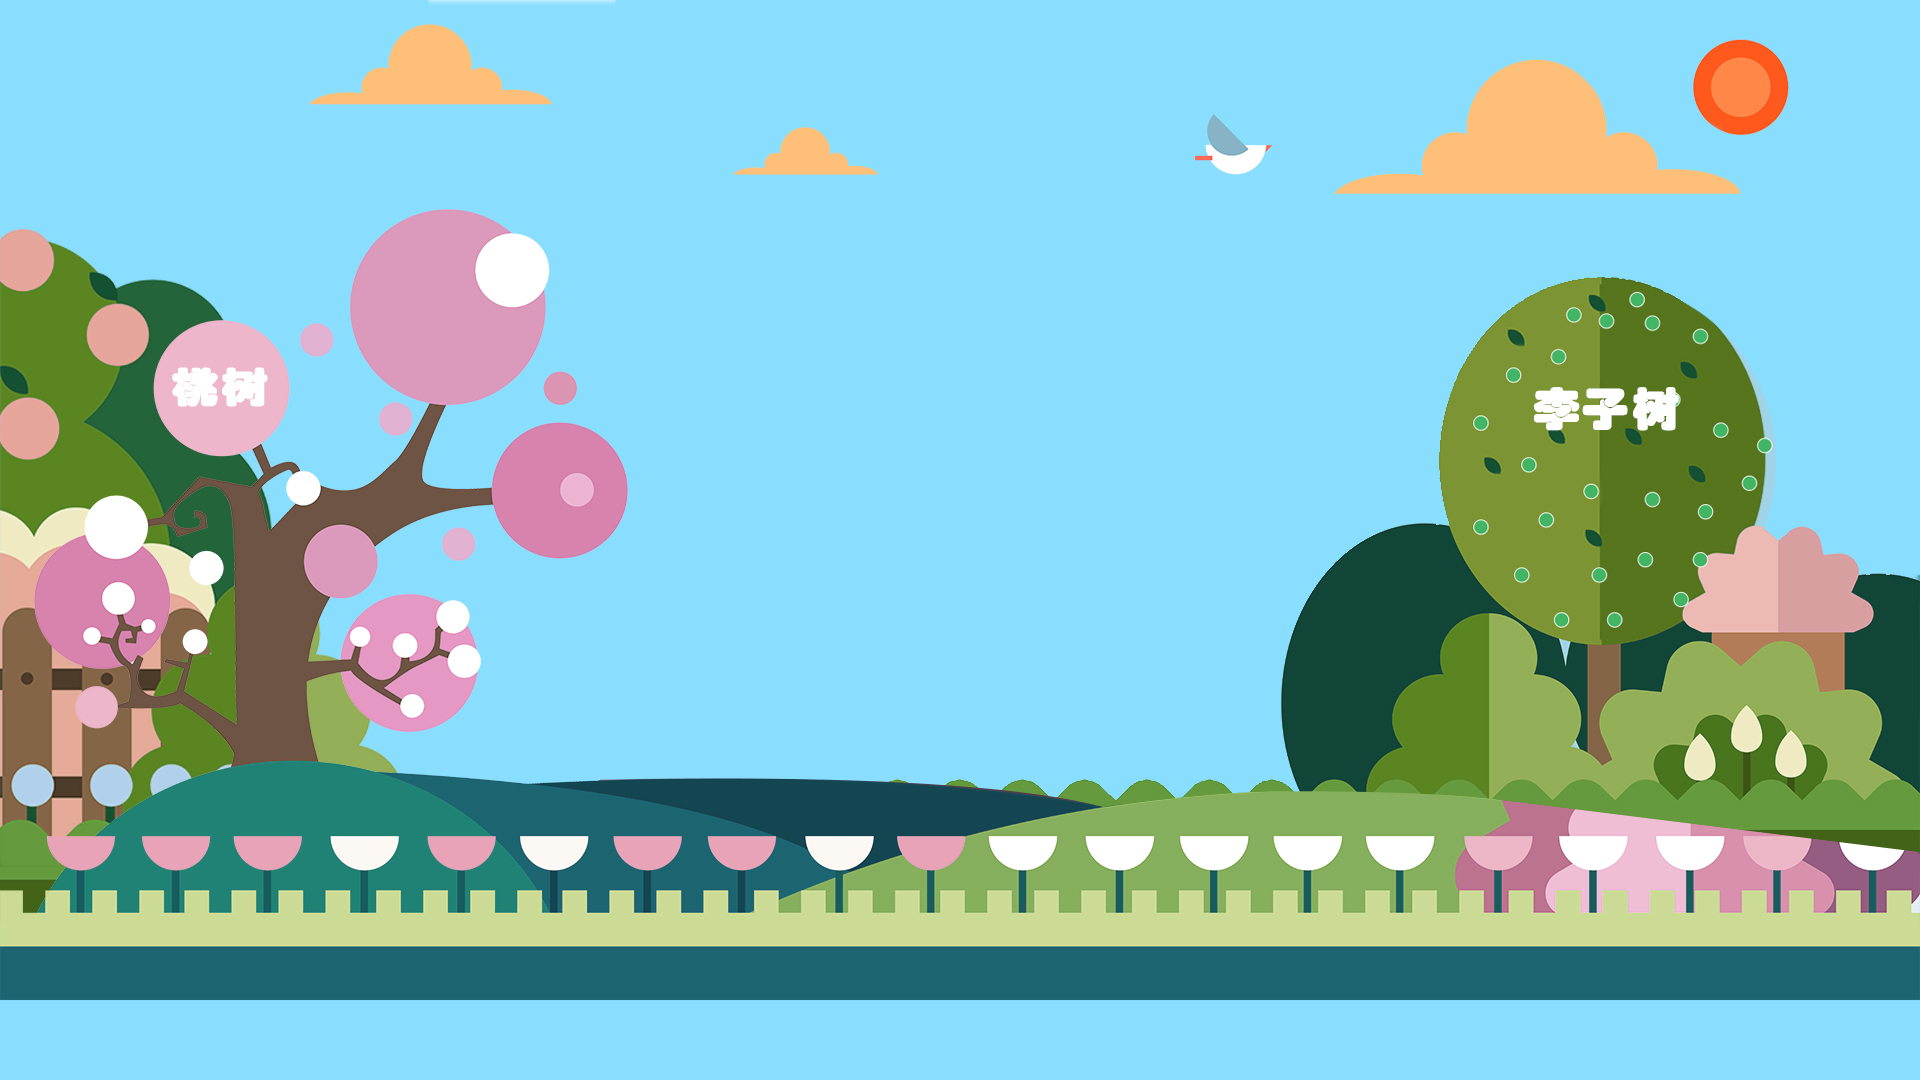
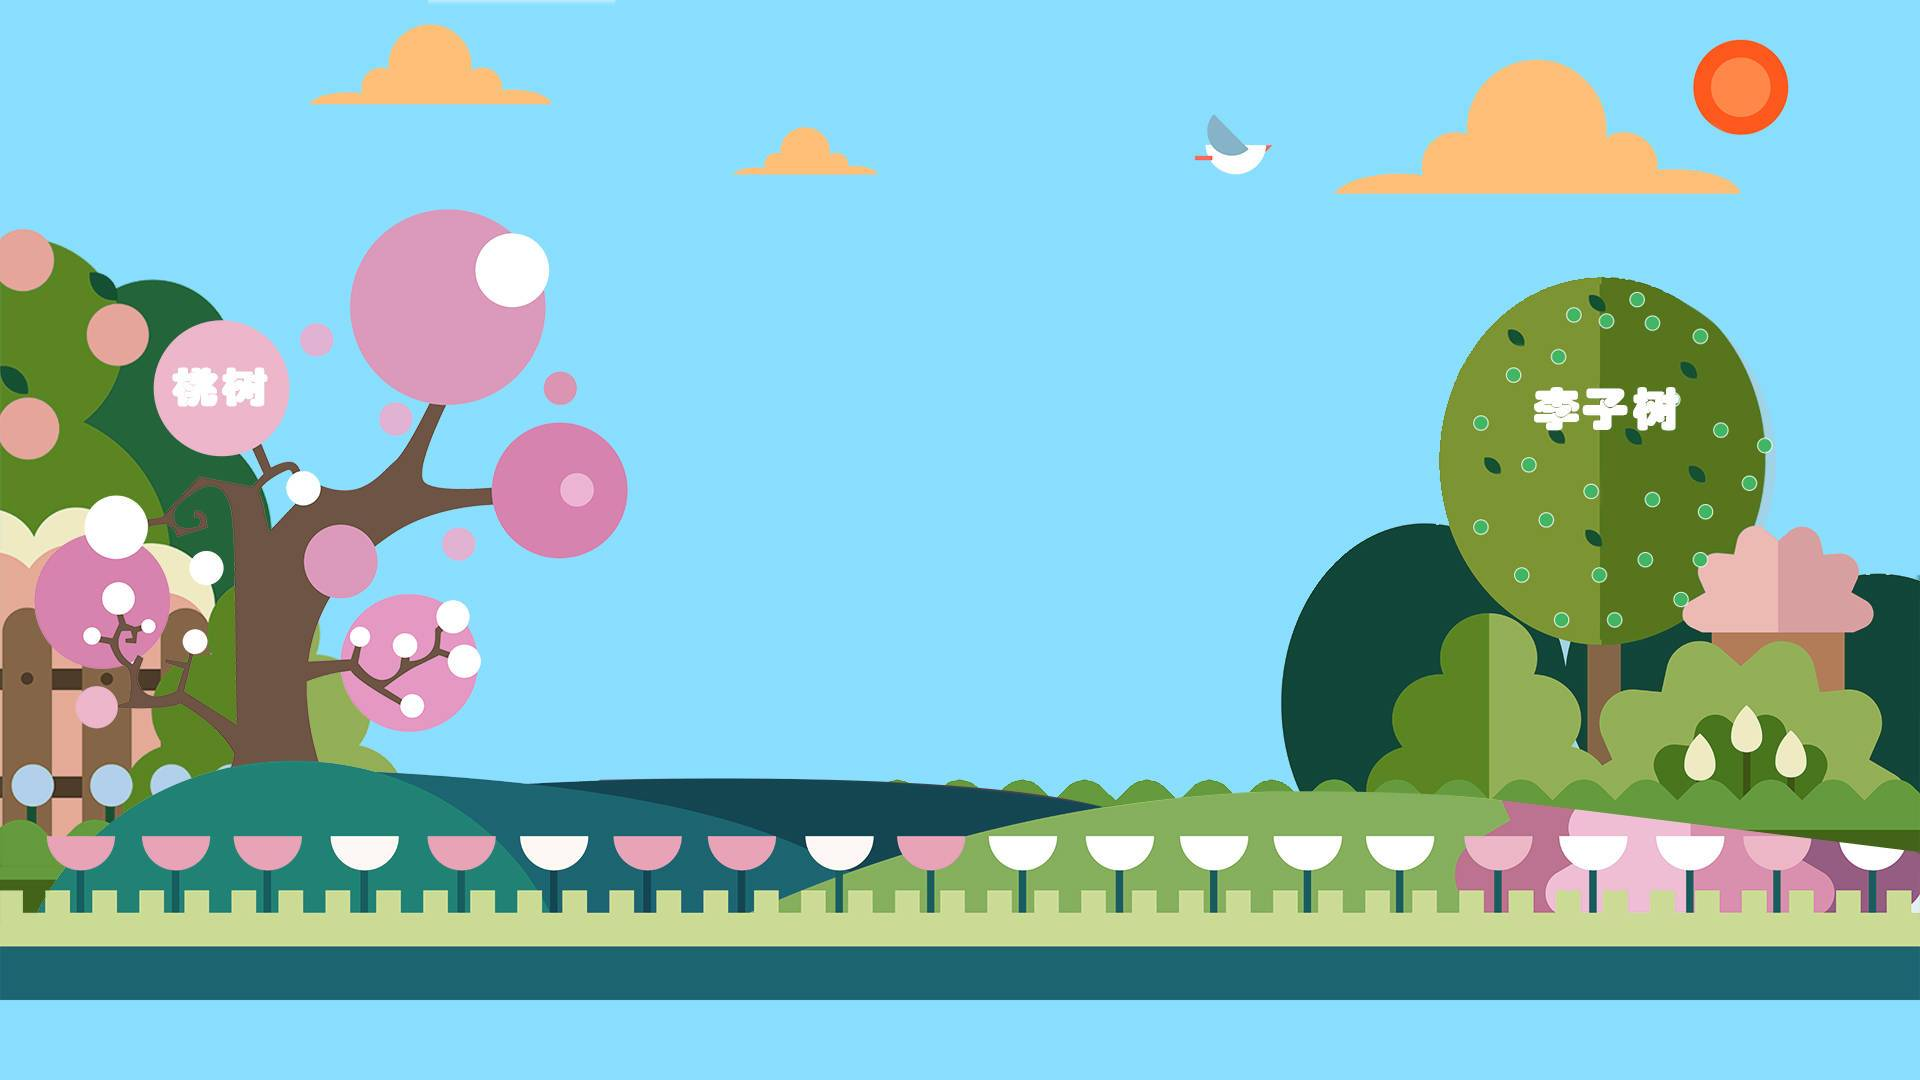
压缩图片

diff --git a/public/css/index.css b/public/css/index.css
@@ -16,7 +16,7 @@ content {
 }
 
 body {
-    background-image: url('/img/bg2.jpg');
+    background-image: url('/img/bg2y.jpg');
     background-repeat: no-repeat;
     background-size: cover;
 }
